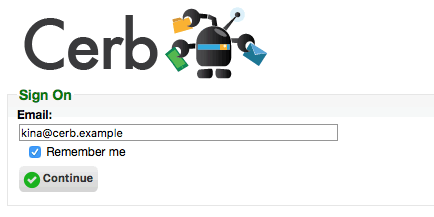
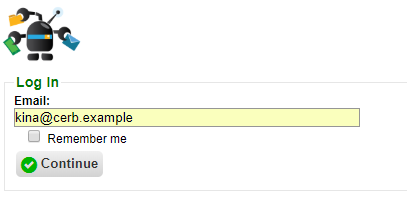
* Concepts was updated
Logging In, Records, and Dashboards saw updates. Logging In only
received updated screen shots. Records has an updated section about
fields with an accompanying screenshot. Dashboards has been reordered,
screenshots have been added, and very few changes were made to the text.

Changed region(s): [[0.0, 0.0297, 1.0, 0.7426], [0.0295, 0.7723, 0.2654, 0.8911]]

diff --git a/_docs/getting_started/dashboards.md b/_docs/getting_started/dashboards.md
@@ -13,21 +13,52 @@ jumbotron:
 
 **Dashboards** extend [workspaces](/docs/workspaces/) by providing visual insight with highly customizable **widgets**.
 
-### Calendars
 
-Plot records on a calendar using date-based fields.
 
 ### Charts
+ 
+### Subtotals
+<div>
+<img src="/assets/images/docs/getting-started/subtotals_table.png" class="screenshot">
+</div>
 
-Plot records on bar and line charts using quantitative fields.  Add multiple series to the same chart for comparisons between record sets or over historical time periods.
+Grab the subtotal counts against a field on any worklist and display them as a table or pie chart.
+
+### Gauges
+<div>
+<img src="/assets/images/docs/getting-started/gauge.png" class="screenshot">
+</div>
+Gauges are similar to a counter, but they allow you to create multiple thresholds within a range.  For instance, the average response time of a group can be displayed as a gauge with thresholds for "excellent", "acceptable", and "unacceptable".
 
 ### Clocks
-
+<div>
+<img src="/assets/images/docs/getting-started/clock.png" class="screenshot">
+</div>
 Display the current time in any timezone in either 12-hour or 24-hour format.
 
 ### Countdowns
-
+<div>
+<img src="/assets/images/docs/getting-started/countdown.png" class="screenshot">
+</div>
 Show the time remaining until a particular event with a countdown clock.
+
+### Calendars
+<div>
+<img src="/assets/images/docs/getting-started/calendar.png" class="screenshot">
+</div>
+Plot records on a calendar using date-based fields.
+
+### Worklists
+<div>
+<img src="/assets/images/docs/getting-started/worklists.png" class="screenshot">
+</div>
+Display a compact version of any worklist.
+
+### Charts
+<div>
+<img src="/assets/images/docs/getting-started/chart.png" class="screenshot">
+</div>
+Plot records on bar and line charts using quantitative fields.  Add multiple series to the same chart for comparisons between record sets or over historical time periods.
 
 ### Counters
 
@@ -37,22 +68,21 @@ Display an aggregated count, sum, average, min, or max using any quantitative fi
 
 Display arbitrary HTML content and Javascript.  This is most often used to display widgets from other systems.
 
-### Gauges
 
-Gauges are similar to a counter, but they allow you to create multiple thresholds within a range.  For instance, the average response time of a group can be displayed as a gauge with thresholds for "excellent", "acceptable", and "unacceptable".
+### Donut and Pie Charts
 
-### Pie Charts
-
-Segment arbitrary JSON data as a pie chart.
+Segment arbitrary JSON data as a donut or pie chart.
+<div>
+<img src="/assets/images/docs/getting-started/pie-donutchart.png" class="screenshot">
+</div>
 
 ### Scatterplots
 
 Cluster two-dimensional data using count, value, average, sum, min, or max using record fields from a worklist.
 
-### Subtotals
-
-Grab the subtotal counts against a field on any worklist and display them as a table or pie chart.
-
-### Worklists
-
-Display a compact version of any worklist.
+### Custom Dashboards
+<div>
+<img src="/assets/images/docs/getting-started/customdashboard.png" class="screenshot"/>
+</div>
+Design dashboards unique to your own user experience. Cerb allows a user to customize their 
+dashboards to their own needs and requirements.

diff --git a/_docs/getting_started/records.md b/_docs/getting_started/records.md
@@ -7,16 +7,22 @@ jumbotron:
 ---
 
 At the core of Cerb is a data management system for organizing collections of **records**.  A record is a distinctly identifiable entity: email address, contact, email message, task, etc.  The different types of records are called **contexts**.  Each record within a context is assigned a unique numeric identifier (**ID**).
-<div class="cerb-screenshot">
-<img src="/assets/images/docs/using-cerb/records/records.png" class="screenshot">
-</div>
+
 * TOC
 {:toc}
 
 ## Fields
 
-Each record contains a set of **fields** to describe its attributes. Some fields are _built-in_, like the name and email address of a contact, or the subject and body of an email message. These fields can't be changed.
+Each record contains a set of **fields** to describe its attributes. 
+Additionally, a field in a record can be the _ID_ of another context. A 
+contact can have an email address _field_ that is linked to the record
+of email address.
+Some fields are _built-in_, like the name and email address of a contact, 
+or the subject and body of an email message. These fields can't be changed.
 
+<div class="cerb-screenshot">
+<img src="/assets/images/docs/using-cerb/records/records.png" class="screenshot">
+</div>
 ## Custom Fields
 
 New **custom fields** can also be added to records based on the needs of a particular organization.
